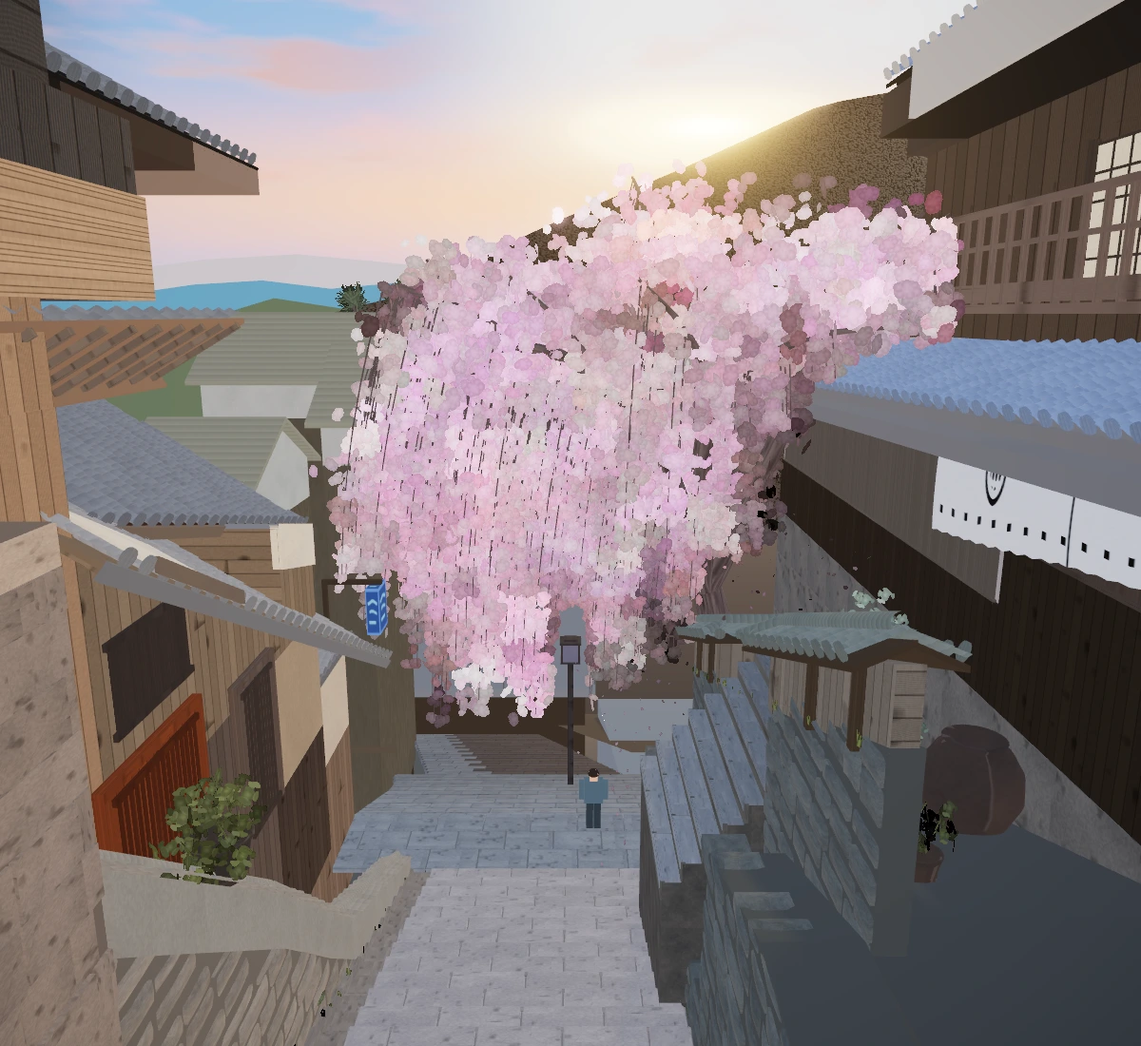
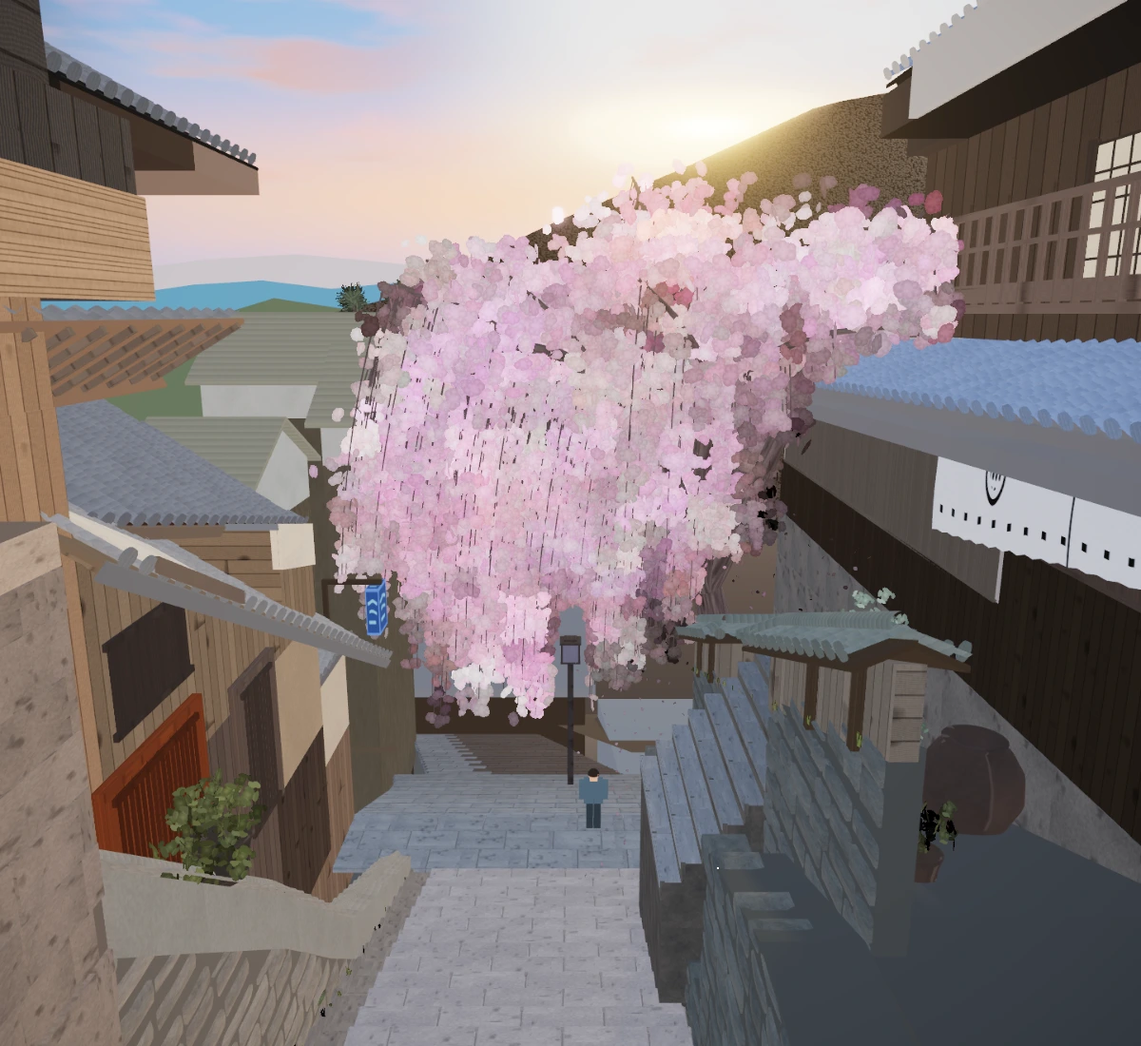
Fix the flicker a user saw while moving the camera, and gate it
Reported as "as I move the camera around it flickers a lot". Not depth fighting, which was the first hypothesis: the composer's targets carry 24-bit depth, and changing the camera's near and far moves the measurement not at all. It is geometry thinner than a pixel, mostly the cherry's strand tubes, the tile ridges, the lattice slats and the edges of 30,000 blossom cards, so a fraction-of-a-pixel camera move switches whole pixels on and off. The fix is eight requested multisamples (clamped by the driver) and a 1.2x supersample resolved down, sized from the drawing buffer rather than CSS pixels. tools/nudge.js, in npm test, moves the camera 2 mm from three poses at two device pixel ratios and bounds how much of the frame may change drastically; it goes red on the state the user saw. Drastic changes fall from 0.32/0.01/0.57 to 0.15/0.00/0.28 at ratio 1 and from 0.40/0.00/0.70 to 0.26/0.00/0.50 at ratio 2, for 0.6 ms of the frame. Scores 0.0811 / 0.4411.

Changed region(s): [[0.7708, 0.7109, 0.8017, 0.7418], [0.3083, 0.3709, 0.3392, 0.4018]]

diff --git a/tools/nudge.js b/tools/nudge.js
@@ -1,0 +1,152 @@
+// npm run nudge (and part of npm test): move the camera two millimetres and require the frame to barely
+// change.
+//
+// This gate exists because a user reported that the scene "flickers a lot" as the camera moves, and no
+// gate could see it: the photo view is scored from a still camera, and a still camera renders the same
+// frame byte for byte. What flickers is every piece of geometry thinner than a pixel: the cherry's
+// strand tubes, the tile ridges, the lattice slats, the edges of thirty thousand blossom cards. A
+// triangle that lands between the samples either covers one or covers none, so a fraction-of-a-pixel
+// camera move switches whole pixels on and off.
+//
+// Two things are asserted for each pose. The same pose rendered twice must be identical, which catches
+// per-frame nondeterminism. And after a 2 mm nudge, only a small fraction of pixels may change
+// drastically: `bigPct` counts pixels whose channels move by more than 90 levels in total, which is what
+// a pixel does when a sliver of geometry appears or disappears in it, not what it does when an edge
+// resamples. The limits are set from what the fixed scene measures, with the margins recorded in
+// docs/learning/gate-proofs.md.
+//
+// Every pose runs at two device pixel ratios, because the first version of the fix was switched off at
+// ratio 2 by its own cap and sized its target from CSS pixels rather than device pixels: the scene on a
+// dense display was then worse than the one the user complained about, while a gate at ratio 1 saw
+// nothing wrong.
+import { mkdirSync, writeFileSync } from 'node:fs';
+import { startServer } from './serve.js';
+import { launch, collectErrors, openScene, ACTION_TIMEOUT_MS } from './lib/browser.js';
+
+const VIEWPORT = { width: 900, height: 820 };
+const PIXEL_RATIOS = [1, 2];
+const NUDGE_METRES = 0.002;
+// Ceilings on the fraction of pixels that change drastically: one per pose, to catch a single bad view,
+// and one on the mean, which is what separates the fixed scene from the broken one. They are per pixel
+// ratio, because the fractions are not comparable between them: a ratio 2 pixel covers a quarter of the
+// screen area of a ratio 1 pixel, so the same physical shimmer counts more pixels there. Measured, fixed
+// against broken (renderScale 1.0 with 4 samples, which is what the user saw):
+//   ratio 1   photo 0.15 / 0.32, orbit 0.00 / 0.01, close 0.28 / 0.57, mean 0.14 / 0.30
+//   ratio 2   photo 0.26 / 0.40, orbit 0.00 / 0.00, close 0.50 / 0.70, mean 0.25 / 0.37
+const LIMIT = {
+  1: { perPose: 0.4, mean: 0.2 },
+  2: { perPose: 0.6, mean: 0.3 },
+};
+const OUT = 'out/nudge.json';
+
+const server = await startServer({ port: 0, quiet: true });
+const browser = await launch();
+let failure = null;
+let errors = [];
+const rows = [];
+try {
+  for (const ratio of PIXEL_RATIOS) {
+  const page = await browser.newPage({ viewport: VIEWPORT, deviceScaleFactor: ratio });
+  page.setDefaultTimeout(ACTION_TIMEOUT_MS);
+  errors = errors.concat(collectErrors(page));
+  await openScene(page, `${server.url}/`);
+  const measured = await page.evaluate((nudge) => {
+    const s = window.__scene;
+    const gl = s.renderer.getContext();
+    const grab = () => {
+      s.render();
+      const w = s.renderer.domElement.width;
+      const h = s.renderer.domElement.height;
+      const buf = new Uint8Array(w * h * 4);
+      gl.readPixels(0, 0, w, h, gl.RGBA, gl.UNSIGNED_BYTE, buf);
+      return { buf, w, h };
+    };
+    const diff = (A, B) => {
+      let changed = 0;
+      let big = 0;
+      const n = A.w * A.h;
+      for (let i = 0; i < n; i++) {
+        const o = i * 4;
+        const d = Math.abs(A.buf[o] - B.buf[o]) + Math.abs(A.buf[o + 1] - B.buf[o + 1]) + Math.abs(A.buf[o + 2] - B.buf[o + 2]);
+        if (d > 8) changed++;
+        if (d > 90) big++;
+      }
+      return { changedPct: (100 * changed) / n, bigPct: (100 * big) / n };
+    };
+    // The photo view, and two poses it cannot speak for: one orbited off the street's axis, one down
+    // among the paving where the stone and the tiles are nearest.
+    const poses = {
+      'photo view': () => {},
+      'orbited left and up': () => {
+        s.camera.position.x -= 6;
+        s.camera.position.y += 2.5;
+        s.camera.lookAt(s.controls.target);
+      },
+      'close to the paving': () => {
+        s.camera.position.y -= 2.2;
+        s.camera.position.z -= 4;
+        s.camera.lookAt(s.controls.target);
+      },
+    };
+    const out = [];
+    for (const [name, apply] of Object.entries(poses)) {
+      s.resetView();
+      apply();
+      // The animation is pinned so it is not the variable under test.
+      s.setTime(1000);
+      const a = grab();
+      const b = grab();
+      const still = diff(a, b);
+      s.camera.position.x += nudge;
+      const c = grab();
+      out.push({ name, still, nudged: diff(b, c) });
+    }
+    return out;
+  }, NUDGE_METRES);
+  for (const m of measured) rows.push({ ...m, ratio, name: `${m.name}, ratio ${ratio}` });
+  await page.close();
+  }
+} catch (err) {
+  failure = err;
+} finally {
+  await browser.close();
+  await server.close();
+}
+
+if (errors.length) {
+  console.error(`FAIL: ${errors.length} page error(s):`);
+  for (const e of errors) console.error(`  ${e}`);
+}
+if (failure) console.error(`FAIL: ${failure.message}`);
+if (errors.length || failure) process.exit(1);
+
+let failed = false;
+for (const r of rows) {
+  console.log(`${r.name.padEnd(32)} still ${r.still.changedPct.toFixed(2)}%   after ${NUDGE_METRES * 1000} mm: ${r.nudged.changedPct.toFixed(2)}% changed, ${r.nudged.bigPct.toFixed(2)}% drastically`);
+  if (r.still.changedPct > 0) {
+    failed = true;
+    console.log(`FAIL ${r.name}: the same pose rendered twice is not identical (${r.still.changedPct.toFixed(2)}% of pixels differ)`);
+  }
+  const limit = LIMIT[r.ratio].perPose;
+  if (r.nudged.bigPct > limit) {
+    failed = true;
+    console.log(`FAIL ${r.name}: ${r.nudged.bigPct.toFixed(2)}% of pixels changed drastically, over the ${limit}% allowed at that pixel ratio`);
+  }
+}
+const means = {};
+for (const ratio of PIXEL_RATIOS) {
+  const at = rows.filter((r) => r.ratio === ratio);
+  const mean = at.reduce((sum, r) => sum + r.nudged.bigPct, 0) / at.length;
+  means[ratio] = mean;
+  const ok = mean <= LIMIT[ratio].mean;
+  if (!ok) failed = true;
+  console.log(`${ok ? 'ok  ' : 'FAIL'} mean drastic change over ${at.length} poses at ratio ${ratio}: ${mean.toFixed(3)}% <= ${LIMIT[ratio].mean}%`);
+}
+mkdirSync('out', { recursive: true });
+writeFileSync(OUT, `${JSON.stringify({ nudgeMetres: NUDGE_METRES, viewport: VIEWPORT, limit: LIMIT, means, poses: rows }, null, 2)}\n`);
+
+if (failed) {
+  console.error('FAIL: the frame is unstable under a small camera move; see out/nudge.json');
+  process.exit(1);
+}
+console.log(`nudge: ${rows.length} poses stable across device pixel ratios ${PIXEL_RATIOS.join(' and ')}`);

diff --git a/src/post.js b/src/post.js
@@ -19,6 +19,24 @@ import { OutputPass } from 'three/addons/postprocessing/OutputPass.js';
 // the hill beside the sun from the photo's #625e55 to #d7ccbe and cost 0.013 of cell distance on its
 // own. Bloom is the one pass here that can quietly ruin the frame, so it is kept tight and weak.
 export const POST = {
+  // The scene is rendered larger than the drawing buffer and resolved down at the end. This, with the
+  // multisampling below, is the fix for the shimmer a user reported when moving the camera: the scene is
+  // full of geometry thinner than a pixel (strand tubes about 0.35 px wide at the cherry's distance, tile
+  // ridges, lattice slats, and the edges of 30,000 blossom cards). Multisampling catches most of it, but
+  // a triangle that lands between the samples covers one or none, so a fraction-of-a-pixel camera move
+  // switches whole pixels on and off; supersampling gives those edges more samples still.
+  //
+  // 1.2 is measured, not chosen: 1.2, 1.35, 1.5, 1.75 and 2.0 all land within noise of each other on the
+  // nudge metric, and 1.0 is twice as unstable, so the gain is in resolving above the drawing buffer at
+  // all rather than in how far above. 1.2 costs 1.44x the fragments where 1.5 costs 2.25x.
+  renderScale: 1.2,
+  // A ceiling on renderScale times the device pixel ratio, so a dense display does not pay for both. A
+  // phone at ratio 2 still gets the supersampling: this only stops the product running away.
+  maxDeviceScale: 2.5,
+  // Requested multisamples. The driver clamps to its own maximum (SwiftShader gives 4, a desktop GPU 8),
+  // and MSAA carries more of this than the supersampling does: turning it off at renderScale 1.2 more
+  // than doubles the drastic changes.
+  samples: 8,
   bloomStrength: 0.1,
   bloomRadius: 0.35,
   bloomThreshold: 1.6,
@@ -55,14 +73,39 @@ const GradeShader = {
     }`,
 };
 
+// How much larger than the drawing buffer to render, with the product against the device pixel ratio
+// capped. Never below 1: resolving down is the point, resolving up is not.
+export function renderScale(renderer) {
+  const ratio = Math.max(1, renderer.getPixelRatio());
+  return Math.max(1, Math.min(POST.renderScale, POST.maxDeviceScale / ratio));
+}
+
+// The composer's target size in real device pixels. It has to come from the drawing buffer, not from
+// renderer.getSize(), which is in CSS pixels: at a device pixel ratio of 2 the two differ by a factor of
+// two, and sizing from the CSS number rendered the scene at a quarter of the canvas and scaled it up.
+export function composerSize(renderer) {
+  const size = renderer.getDrawingBufferSize(new THREE.Vector2());
+  return size.multiplyScalar(renderScale(renderer)).round();
+}
+
+// Resize the composer's targets after the renderer's own size or pixel ratio has changed.
+export function resizeComposer(composer, renderer) {
+  const size = composerSize(renderer);
+  // EffectComposer multiplies whatever it is given by its own pixel ratio, which it captured when it was
+  // built. The size above is already in device pixels, so that multiplier stays at 1.
+  composer.setPixelRatio(1);
+  composer.setSize(size.x, size.y);
+}
+
 export function buildComposer(renderer, scene, camera) {
-  const size = renderer.getSize(new THREE.Vector2());
+  const size = composerSize(renderer);
   const target = new THREE.WebGLRenderTarget(size.x, size.y, {
     type: THREE.HalfFloatType,
     colorSpace: THREE.LinearSRGBColorSpace,
-    samples: 4,
+    samples: POST.samples,
   });
   const composer = new EffectComposer(renderer, target);
+  composer.setPixelRatio(1);
   composer.addPass(new RenderPass(scene, camera));
   const bloom = new UnrealBloomPass(new THREE.Vector2(size.x, size.y), POST.bloomStrength, POST.bloomRadius, POST.bloomThreshold);
   composer.addPass(bloom);

diff --git a/src/main.js b/src/main.js
@@ -6,7 +6,7 @@ import * as L from './layout.js';
 import { CAMERA, COLORS, uvToWorld } from './layout.js';
 import { buildScene } from './scene.js';
 import { buildLighting, applyShadowFlags } from './lighting.js';
-import { buildComposer } from './post.js';
+import { buildComposer, resizeComposer } from './post.js';
 import { MATERIALS } from './materials.js';
 import { sceneRadiance } from './tonemap.js';
 import * as anim from './animation.js';
@@ -108,7 +108,7 @@ function render() {
 function onResize() {
   renderer.setPixelRatio(Math.min(window.devicePixelRatio, PIXEL_RATIO_CAP));
   renderer.setSize(window.innerWidth, window.innerHeight, false);
-  composer.setSize(window.innerWidth, window.innerHeight);
+  resizeComposer(composer, renderer);
   camera.aspect = window.innerWidth / window.innerHeight;
   camera.updateProjectionMatrix();
 }

diff --git a/tools/test.js b/tools/test.js
@@ -1,5 +1,5 @@
-// npm test: shot -> compare -> placement checks -> the animation's own frames -> assert the scores
-// against the thresholds in docs/PLAN-scores.md.
+// npm test: shot -> compare -> placement checks -> the animation's own frames -> the frame's stability
+// under a small camera move -> assert the scores against the thresholds in docs/PLAN-scores.md.
 import { spawnSync } from 'node:child_process';
 import { readFileSync } from 'node:fs';
 
@@ -16,6 +16,7 @@ run('tools/shot.js');
 run('tools/compare.js');
 run('tools/placement.js');
 run('tools/animation.js');
+run('tools/nudge.js');
 
 const scores = JSON.parse(readFileSync('out/scores.json', 'utf8'));
 const doc = readFileSync('docs/PLAN-scores.md', 'utf8');

diff --git a/docs/devlog/detailed/2026-09-05-phase-5.md b/docs/devlog/detailed/2026-09-05-phase-5.md
@@ -62,10 +62,27 @@ The critic reproduced every measurement, drove the live page to check the clamps
 
 Two things it raised are carried, not fixed. The plan's "no console warnings" is true on the software renderer the gates use but not on the GPU path, where three's own program logs one shader precision warning; nothing gates warnings, only errors. And the corridor clamp lets the camera 0.35 m past the wall faces, which is deliberate looseness so the useful low views survive, and recoverable with `R`.
 
+## The user's flicker, and what it turned out to be
+
+The user said "As I move the camera around it flickers a lot". The measurements are in `docs/learning/defect-register.md`; what is worth keeping here is how the diagnosis went, because the first hypothesis was wrong and the first fix was worse than wrong.
+
+The hypothesis handed over was depth fighting between the surfaces phase 2 stacked centimetres apart, which fitted the symptom and the worst blocks (house 1's roof and dormer, the fence roof). It was false, and three measurements killed it: the composer's targets carry 24-bit depth, not 16; moving the camera's near from 0.2 to 1.0 or 2.0 and far from 6000 to 400 changed the photo view's figure not at all; and an amplified difference image put every changed pixel on an edge, with flat interiors untouched, which is the opposite of what a depth fight looks like. The critic then pushed depth precision a thousand times worse (near 0.002) and the figure still did not move, and classified the drastically changed pixels by their surroundings: only 0.3% of them sit in flat neighbourhoods, though flat regions are half the frame.
+
+What it is: geometry thinner than a pixel. The cherry's strand tubes are about 0.35 px wide at their distance; so are tile ridges, lattice slats and the edges of thirty thousand blossom cards. A triangle that lands between the samples covers one or none.
+
+The first fix supersampled at 1.5x and halved the drastic changes, and the critic found two things wrong with it. It sized the render target from `renderer.getSize()`, which is CSS pixels, so at a device pixel ratio of 2 the target was a quarter of the canvas and the scene was rendered small and scaled up. And its own cap, `min(1.5, 2 / pixelRatio)`, was exactly 1 at ratio 2, on the reasoning that a dense display is already sampling finely. Measurement says otherwise: at ratio 2 the unfixed scene is *less* stable by this metric, not more, so the fix switched itself off exactly where it was most needed. Every retina display, every phone, and Windows at 200% got nothing.
+
+It also found a supporting fact false. Asking for eight multisamples had produced byte-identical output, which I wrote down as SwiftShader ignoring the request; in fact SwiftShader's maximum is four and WebGL clamps, so the request worked and could not go higher there, while a desktop GPU reports eight and uses them. Multisampling is carrying more than half of the stability, and it was nearly abandoned on that false premise.
+
+The fix now: eight requested samples, the target sized from the drawing buffer, and a supersample of 1.2 rather than 1.5, because 1.2, 1.35, 1.5 and 2.0 all measure the same and 1.2 costs 1.44x the fragments instead of 2.25x. Median frame time went 2.6 ms to 3.2 ms, not to 6.3 ms.
+
 ## Bounds worth knowing
 
 - The animation gate costs about six minutes under SwiftShader, which is most of `npm test`'s runtime. Seven frames is the compromise between covering the cycle and keeping the gate usable, and `ANIMATION_FRAMES` trims it where a run has to be quick; a longer cycle (the petals wrap on a period of tens of seconds, not 8.7) is not fully covered.
 - The motion bound measures the whole frame, so a violent animation confined to a small part of the scene could still pass under it.
+- The nudge gate has about one bit of resolution on the supersample: every scale from 1.2 to 2.0 passes alike and only turning it off fails. It proves the class of defect, not the setting.
+- The scene is still least stable close to the paving at a device pixel ratio of 2 (0.50% of pixels change drastically under a 2 mm nudge, against 0.28% at ratio 1). Those pixels are a quarter of the screen area each, so the same physical shimmer counts more of them; the gate's limits are per ratio for that reason.
+- The scored shot now renders at 1.2x and resolves down, which is the same thing the page does, so the metric is not being shown something the user is not.
 - The camera clamps are a floor from the street's height field and a corridor between the two house rows below eave height. They do not model the buildings: the camera can still be pushed inside the far houses or the hill, which are far from anywhere a viewer goes. The limits were kept loose on purpose, so the views the manager found useful still work.
 - The petals fall in a box around the canopy rather than on a true wind field, and they do not interact with anything.
 - CI runs the gates on SwiftShader with no GPU, which is what the scored shot has always used, so the numbers should match. `npm run perf` is deliberately not run there: it measures the machine, and a shared runner's number would fail forever while telling nobody anything.

diff --git a/docs/devlog/summary.md b/docs/devlog/summary.md
@@ -2,7 +2,7 @@
 
 One short dated line per behaviour-changing session, newest first. History, not status. Anything a later session could trip over is in `detailed/`.
 
-- **2026-09-05 — Phase 5 landed: life, interaction, performance, delivery.** The scene moves: wind through the canopy and the noren, 420 petals falling, the clouds drifting, the lanterns swinging, all in the vertex shaders from one deterministic clock the gates can pin (`src/animation.js`). A new gate scores seven frames across the cycle, because a gate that shoots one frame cannot see a drift at t = 3 s; the spread is 0.0001 of cell distance and 0.0005 of SSIM. The grounding lesson landed as the second half of `tools/placement.js` and is retired with its proof. Controls gained a floor and corridor clamp, touch bindings, a pixel-ratio cap and a loading indicator; delivery gained a README, `docs/render.webp`, a Pages workflow and a CI workflow that runs the gates on SwiftShader and does not assert the perf budget. Two measured wins closed the phase: the sky's blue taken from the photo's own top row, and the landing shading into the bend. Cell distance 0.0820 to 0.0813, SSIM 0.4338 to 0.4385, 316 draw calls, 2.6 ms median. The critic caught the new gate passing a fourteen-fold canopy sway, so it now bounds the motion between frames as well as the scores, and has been seen red. See `detailed/2026-09-05-phase-5.md`.
+- **2026-09-05 — Phase 5 landed: life, interaction, performance, delivery.** The scene moves: wind through the canopy and the noren, 420 petals falling, the clouds drifting, the lanterns swinging, all in the vertex shaders from one deterministic clock the gates can pin (`src/animation.js`). A new gate scores seven frames across the cycle, because a gate that shoots one frame cannot see a drift at t = 3 s; the spread is 0.0001 of cell distance and 0.0005 of SSIM. The grounding lesson landed as the second half of `tools/placement.js` and is retired with its proof. Controls gained a floor and corridor clamp, touch bindings, a pixel-ratio cap and a loading indicator; delivery gained a README, `docs/render.webp`, a Pages workflow and a CI workflow that runs the gates on SwiftShader and does not assert the perf budget. Two measured wins closed the phase: the sky's blue taken from the photo's own top row, and the landing shading into the bend. A user reported the scene flickering while they moved the camera; it was geometry thinner than a pixel, not the depth fighting first suspected, and the fix is multisampling plus a 1.2x resolve, gated by `npm run nudge` at two device pixel ratios and recorded in the defect register. Cell distance 0.0820 to 0.0811, SSIM 0.4338 to 0.4411, 316 draw calls, 3.2 ms median. The critic caught the new gate passing a fourteen-fold canopy sway, so it now bounds the motion between frames as well as the scores, and has been seen red. See `detailed/2026-09-05-phase-5.md`.
 
 - **2026-09-05 — Phase 4 landed: sky, light, atmosphere, post.** The scene is lit: a rig of neutral ambient, a sky tint, the low sun with capped shadow casters and a PMREM environment from the sky itself, the parked normal and roughness maps in use, a rewritten sky dome with cirrus and cumulus, and a composer with bloom, a vignette and one ACES pass at the end. The decision the phase turns on: the sampled means stay the target displayed color, and each material's albedo is the radiance that displays as that mean once the rig and the tone curve have had their say (`src/tonemap.js` inverts the curve three applies). Cell distance 0.0844 to 0.0825, SSIM 0.4159 to 0.4301, 316 draw calls for the whole frame, 3.4 ms median. Three things proved false: the port of the tone curve (three divides by 0.6 where the port multiplied), that a blank frame meant a broken post chain (hand-built geometries had no normals, and one NaN spreads through the bloom blur), and that bloom is a finishing touch (its first settings cost more than the entire lighting rig). The canopy now reaches over the machiya's eave, which was a carried gap; see `detailed/2026-09-05-phase-4.md`.
 

diff --git a/docs/learning/defect-register.md b/docs/learning/defect-register.md
@@ -6,5 +6,4 @@ Entry shape: date, symptom as the user saw it, investigation, root cause, and ho
 
 | Date | Symptom (as reported) | Investigation | Root cause | Checked from now on by |
 | ---- | --------------------- | ------------- | ---------- | ---------------------- |
-
-No user-reported defects yet.
+| 2026-09-06 | "As I move the camera around it flickers a lot" | Two renders of an identical pose are byte-identical, so nothing is nondeterministic per frame and the animation is not involved. A 2 mm camera nudge changed 4.76% of pixels at the photo view (0.32% of them by more than 90 levels), 5.39% close to the paving (0.57%), 0.19% orbited (0.01%). The first hypothesis was depth fighting between the surfaces phase 2 stacked centimetres apart, and it was wrong: the composer's render targets carry 24-bit depth (measured, not assumed), and moving the camera's near from 0.2 to 1.0 or 2.0, or far from 6000 to 400, changed the photo view's figure not at all. Disabling bloom, and the whole post chain, changed nothing either. An amplified difference image settled it: the change sits on the edges of fine geometry and all through the canopy, with flat interiors untouched, which is not what a depth fight looks like. Then the remedies were measured: maximum anisotropy did nothing, alpha-to-coverage did nothing, and supersampling halved the drastic changes. Asking for eight multisamples produced byte-identical output, which was first written down as "SwiftShader does not honour the request"; the critic showed that was wrong. SwiftShader reports a maximum of four samples and WebGL clamps to it, so the request worked and simply could not go higher there; a desktop GPU reports eight and does use them. Multisampling turned out to be carrying more than half the stability, and switching it off at the shipped supersample doubles the drastic changes. The first fix was also switched off exactly where it was needed most: it capped its own scale against the device pixel ratio and sized its target from CSS pixels, so at a pixel ratio of 2 the scene rendered at a quarter of the canvas and scaled up, measuring worse than the state the user complained about, while the gate ran only at ratio 1 and saw nothing. | Geometric aliasing, not depth. The scene is full of geometry thinner than a pixel: the cherry's strand tubes are about 0.35 px wide at their distance, and so are tile ridges, lattice slats and the edges of some thirty thousand alpha-tested blossom cards. A triangle that lands between the samples either covers one or covers none, so a fraction-of-a-pixel camera move switches whole pixels on and off. Multisampling catches most of it and supersampling catches more; neither can help what falls between all of the samples. | `npm run nudge` (in `npm test`): three poses at two device pixel ratios, each rendered twice for an identical-frame check and then with the camera moved 2 mm, failing when too many pixels change by more than 90 levels. The limits are per ratio, because a ratio 2 pixel covers a quarter of the screen area and the fractions are not comparable. The fix is in `src/post.js`: eight requested multisamples (the driver clamps to its own maximum) and `POST.renderScale` at 1.2, so the scene renders above the drawing buffer and resolves down. Measured, fixed against the state the user saw: at ratio 1 the three poses go 0.15/0.00/0.28 against 0.32/0.01/0.57, and at ratio 2 0.26/0.00/0.50 against 0.40/0.00/0.70. Costs 0.6 ms of a 16 ms budget. Proof of the red run in `gate-proofs.md`. |

diff --git a/docs/learning/gate-proofs.md b/docs/learning/gate-proofs.md
@@ -2,6 +2,16 @@
 
 Each retired lesson's gate is listed with the mutation that made it go red, the failure it produced, and where the evidence lived before retirement. A gate that was never seen red proves nothing.
 
+## nudge: the frame is stable under a small camera move (2026-09-06)
+
+- Claim (in the gate's own header, `tools/nudge.js`): a still camera renders the same frame byte for byte, so no scored gate can see a frame that is unstable while the camera moves. For three poses at two device pixel ratios the gate renders the same pose twice and requires identical output, then nudges the camera 2 mm and requires the fraction of pixels changing by more than 90 levels to stay under its per-ratio limits (0.4% per pose and 0.2% on the mean at ratio 1; 0.6% and 0.3% at ratio 2).
+- Origin: the user's report, "As I move the camera around it flickers a lot", recorded in `defect-register.md` with the investigation that traced it to geometry thinner than a pixel rather than to depth fighting.
+- Mutation: `POST.renderScale` set back to 1.0 and `POST.samples` to 4 in `src/post.js`, which is the state the user saw, then `npm run nudge`.
+- Failure produced: four failures, exit status 1. `FAIL close to the paving, ratio 1: 0.57% ... over the 0.4% allowed`, the same pose at ratio 2 with 0.70% over 0.6%, and both means (0.298 over 0.2 at ratio 1, 0.369 over 0.3 at ratio 2). Restored, the same run printed `nudge: 6 poses stable across device pixel ratios 1 and 2`.
+- The limits sit between the two measured states at each ratio, roughly 1.3x above the fixed scene and 1.3x below the broken one. The mean does the separating and the per-pose ceiling catches a single bad view that a mean would dilute.
+- The first version of the gate ran only at ratio 1, and it passed a fix that was switched off at ratio 2 and rendering the scene at a quarter of the canvas there. That is why the gate runs both.
+- Bound: three poses, one nudge direction, one viewport (900x820) and one renderer. It measures the whole frame, so a small patch of violent instability can hide under the fraction. It counts only pixels that change *drastically*, so it says nothing about the ordinary resampling a moving camera always produces. And it has about one bit of resolution on the supersample: 1.2, 1.35, 1.5 and 2.0 all pass alike, and only turning it off fails, so it proves the class rather than the setting.
+
 ## animation: the scene moves, and not too much (2026-09-05)
 
 - Claim (in the gate's own header, `tools/animation.js`): the scored shot is one frame, so it cannot see what the animation does at t = 3 s. The gate scores seven frames across the wind's slowest period and asserts the worst frame's scores, the spread between frames, and the mean per-pixel change between neighbouring frames from both sides: too little and the scene has stopped moving, too much and it is thrashing.

diff --git a/docs/PLAN-scores.md b/docs/PLAN-scores.md
@@ -11,12 +11,14 @@ The margin covers rasterization differences between machines (anti-aliasing, Swi
 
 ```json
 {
-  "cellDistanceMax": 0.083,
-  "ssimMin": 0.433
+  "cellDistanceMax": 0.0825,
+  "ssimMin": 0.436
 }
 ```
 
-The animation adds a second question the thresholds cannot answer: the shot is one frame, and the scene moves. `npm run animation` scores seven frames across the wind's period and asserts the worst of them against these same thresholds plus 0.002 of cell distance and 0.006 of SSIM. The spread it measures is in the phase 5 devlog.
+Two questions the thresholds cannot answer are asked elsewhere. `npm run nudge` moves the camera 2 mm from three poses at two device pixel ratios and bounds how much of the frame may change drastically, because a still camera renders the same frame every time and the user's flicker lived entirely in the movement.
+
+The animation adds a third: the shot is one frame, and the scene moves. `npm run animation` scores seven frames across the wind's period and asserts the worst of them against these same thresholds plus 0.002 of cell distance and 0.006 of SSIM. The spread it measures is in the phase 5 devlog.
 
 ## History
 
@@ -47,4 +49,5 @@ The animation adds a second question the thresholds cannot answer: the shot is o
 | 5 (animated) | 2026-09-05 | 0.0820 | 0.4340 | 318 | 3.7 ms | wind through the canopy, petals, cloud drift, lantern sway, all in the vertex shaders |
 | 5 (sky blue) | 2026-09-05 | 0.0816 | 0.4338 | | | `skyTopBlue` replaced by the photo's own top row (#9bc4e4) |
 | 5 (before critic) | 2026-09-05 | 0.0812 | 0.4389 | 318 | 3.7 ms | the landing shading into the bend as the photo does |
-| 5 (done, after critic) | 2026-09-06 | 0.0813 | 0.4385 | 316 | 2.6 ms | the animation gate given a motion bound that a fourteen-fold sway fails, the swaying strands and petals taken out of the shadow pass (they cast still shadows), CI trimmed to three frames; animation spread over 7 frames 0.0001 cell and 0.0005 SSIM, motion 0.18 levels |
+| 5 (after critic) | 2026-09-06 | 0.0813 | 0.4385 | 316 | 2.6 ms | the animation gate given a motion bound that a fourteen-fold sway fails, the swaying strands and petals taken out of the shadow pass (they cast still shadows), CI trimmed to three frames; animation spread over 7 frames 0.0001 cell and 0.0005 SSIM, motion 0.18 levels |
+| 5 (done, user's flicker fixed) | 2026-09-06 | 0.0811 | 0.4411 | 316 | 3.2 ms | eight requested multisamples and a 1.2x supersample resolved down, for the shimmer the user reported while orbiting; the scores moved because the same resolve runs in the scored shot, which is what the page does too |

diff --git a/AGENTS.md b/AGENTS.md
@@ -18,6 +18,7 @@ The phased plan is `docs/PLAN.md` (manager-owned). Scores and their thresholds a
 - `npm test` runs `shot`, `compare`, `placement` and `animation`, then asserts the scores against the thresholds in `docs/PLAN-scores.md`. Needs network for the Three.js CDN and a cached Playwright chromium (`npx playwright install chromium` once).
 - `npm run placement` runs two checks the scores cannot make. `PLACEMENT_CHECKS` casts the photo camera's ray through each listed position and fails unless the first mesh hit is the named one (a piece built inside another, a canopy hiding a missing trunk). `GROUNDING_CHECKS` takes each listed object's own base, drops a ray, and fails when the mesh it should stand on is too far below it (floating) or too far above it (buried). Both lists are in `src/layout.js`.
 - `npm run animation` scores the photo view at seven points across the animation cycle and fails if the worst of them leaves tolerance. The shot gate pins the clock at t = 0, so it alone cannot see a drift that only shows once the canopy has swung.
+- `npm run nudge` renders three poses twice each (identical output required), then moves the camera 2 mm and fails when too many pixels change drastically. It exists because a user saw the scene flicker while orbiting and no scored gate could see it: a still camera renders the same frame every time. The scene is rendered above canvas resolution (`POST.renderScale`) for the same reason.
 - `npm run webp` encodes `out/render.png` as `docs/render.webp` (under 256 KiB) through chromium's own encoder.
 - `npm run shot` renders the photo view at 1200x1100 in headless chromium to `out/render.png` and fails on any console error, page error, or failed request.
 - `npm run compare` scores `out/render.png` against `japan.webp`: mean color distance over a 24x22 grid of cells (lower is better) and grayscale SSIM at 64 px (higher is better). It refuses a render older than the source. It writes `out/compare.png` (photo | render | 50% overlay | heat-map), `out/overlay.png` (the plan's landmark boxes over a 50% blend at 1200x1100), and `out/scores.json` (scores plus per-cell means).

diff --git a/README.md b/README.md
@@ -36,6 +36,7 @@ npm test
 | `npm run compare` | Scores `out/render.png` against `japan.webp` and writes `out/compare.png` (photo, render, 50% overlay, heat map), `out/overlay.png` and `out/scores.json`. |
 | `npm run placement` | Two checks the scores cannot make: a ray through 19 photo positions that must hit the object belonging there, and 8 objects whose own base must sit on the ground they claim to stand on. |
 | `npm run animation` | Scores the photo view at several points across the animation cycle, so a drift that only shows at t = 3 s cannot hide. |
+| `npm run nudge` | Moves the camera two millimetres from three poses and fails if the frame changes more than a little. A still camera renders the same frame every time, so this is the only gate that sees the scene the way someone orbiting it does. |
 | `npm run perf` | Median frame time and draw calls over 5 s at 1920x1080. Budget: under 16 ms and under 400 draw calls. |
 | `npm run probe -- u,v ...` | Names the mesh under each photo position, and the pixel there. |
 | `npm run inspect -- pair u0 v0 u1 v1` | Writes a photograph-versus-render crop of a region. |
@@ -56,8 +57,8 @@ Two metrics, both computed by `npm run compare` (see `tools/lib/metrics.js` for 
 | Architecture and stone (phase 2) | 0.0899 | 0.3273 |
 | Vegetation and background (phase 3) | 0.0844 | 0.4159 |
 | Light and atmosphere (phase 4) | 0.0820 | 0.4338 |
-| Life and delivery (phase 5) | 0.0813 | 0.4385 |
-| **Final** | **0.0813** | **0.4385** |
+| Life and delivery (phase 5) | 0.0811 | 0.4411 |
+| **Final** | **0.0811** | **0.4411** |
 
 The thresholds the tests assert live in `docs/PLAN-scores.md`, along with every intermediate measurement and what moved it.
 
